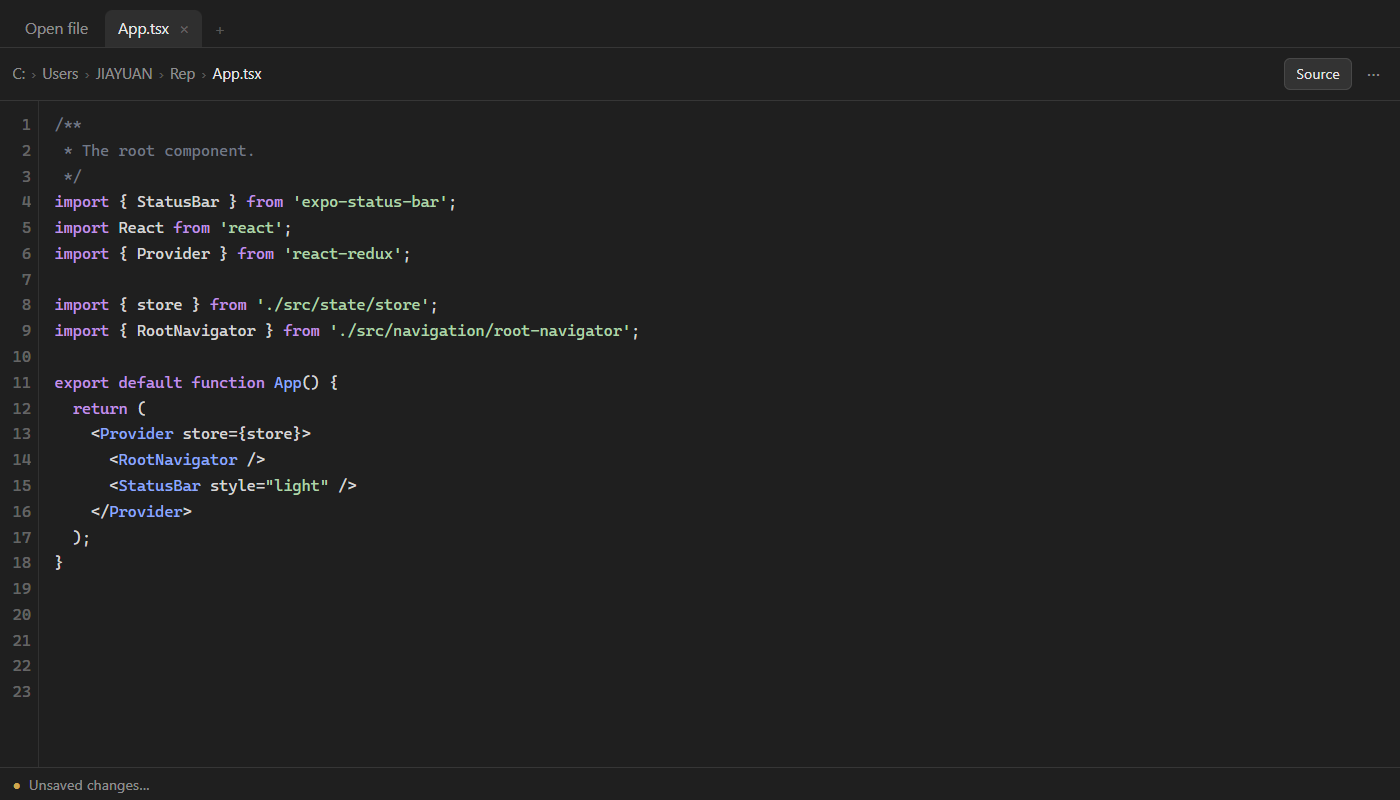
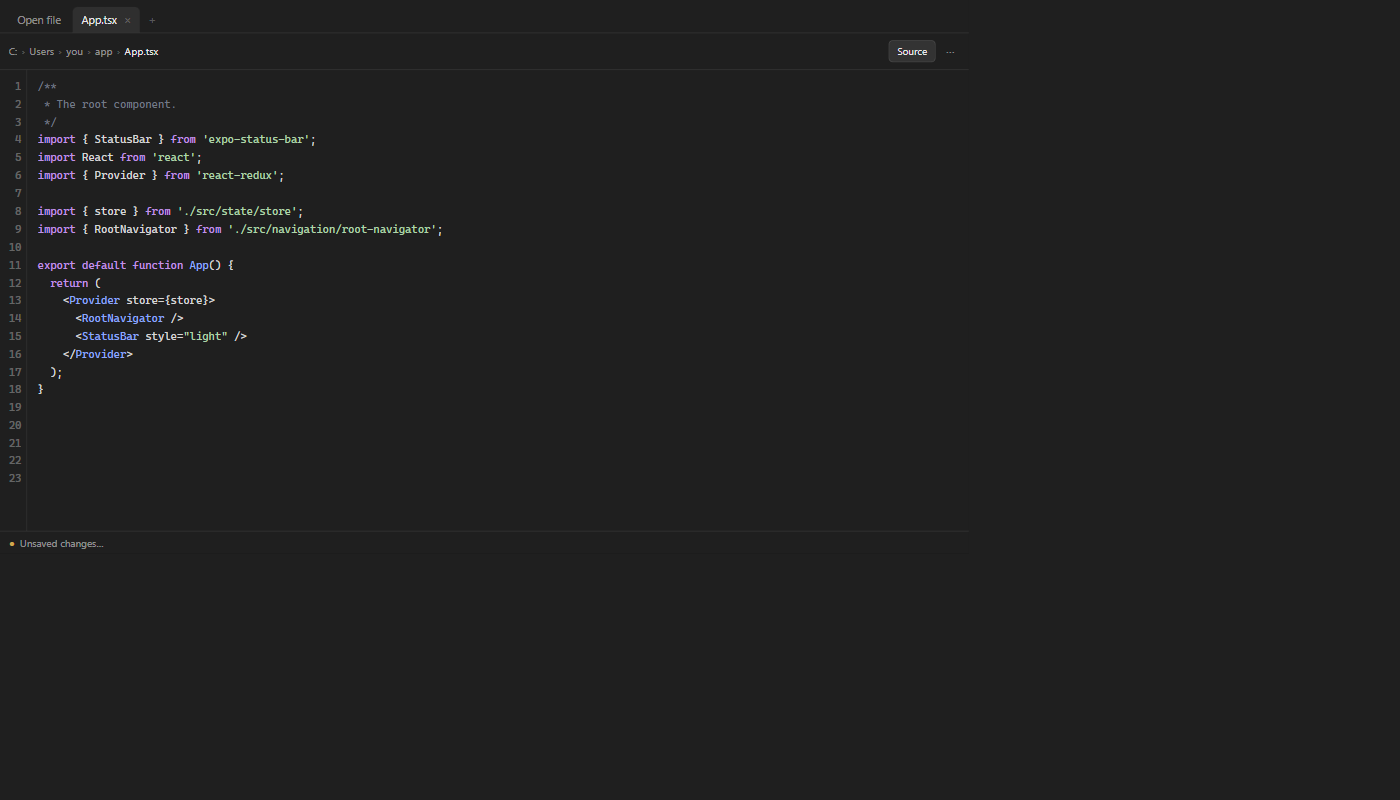
docs: rewrite the README for public readers and neutralise preview paths

diff --git a/docs/preview.html b/docs/preview.html
@@ -169,8 +169,8 @@
         <div class="crumbs">
           <span class="up">C:</span><span class="sep">›</span>
           <span class="up">Users</span><span class="sep">›</span>
-          <span class="up">JIAYUAN</span><span class="sep">›</span>
-          <span class="up">Rep</span><span class="sep">›</span>
+          <span class="up">you</span><span class="sep">›</span>
+          <span class="up">app</span><span class="sep">›</span>
           <span class="file">workouts.csv</span>
         </div>
         <div class="seg"><button class="on">Table</button><button>Source</button></div>
@@ -199,9 +199,9 @@
         <div class="side">
           <h4>Recent</h4>
           <div class="recent">
-            <div>workouts.csv <span class="folder">Rep</span></div>
-            <div>README.md <span class="folder">Rep</span></div>
-            <div>App.tsx <span class="folder">Rep</span></div>
+            <div>workouts.csv <span class="folder">app</span></div>
+            <div>README.md <span class="folder">app</span></div>
+            <div>App.tsx <span class="folder">app</span></div>
             <div>button.tsx <span class="folder">src/components</span></div>
           </div>
         </div>
@@ -213,7 +213,7 @@
     <div class="shot" id="browse" role="img" aria-label="Folder browser">
       <div class="tabs">
         <div class="tab">Open file</div>
-        <div class="tab active">Rep <span class="x">×</span></div>
+        <div class="tab active">app <span class="x">×</span></div>
         <div class="tab">App.tsx <span class="x">×</span></div>
         <div class="plus">+</div>
       </div>
@@ -222,9 +222,9 @@
           <span class="up">↑</span>
           <span class="up">C:</span><span class="sep">›</span>
           <span class="up">Users</span><span class="sep">›</span>
-          <span class="up">JIAYUAN</span><span class="sep">›</span>
-          <span class="up">CursorProjects</span><span class="sep">›</span>
-          <span class="file">Rep</span>
+          <span class="up">you</span><span class="sep">›</span>
+          <span class="up">Projects</span><span class="sep">›</span>
+          <span class="file">app</span>
         </div>
         <div class="dots">⋯</div>
       </div>
@@ -257,8 +257,8 @@
         <div class="crumbs">
           <span class="up">C:</span><span class="sep">›</span>
           <span class="up">Users</span><span class="sep">›</span>
-          <span class="up">JIAYUAN</span><span class="sep">›</span>
-          <span class="up">Rep</span><span class="sep">›</span>
+          <span class="up">you</span><span class="sep">›</span>
+          <span class="up">app</span><span class="sep">›</span>
           <span class="file">App.tsx</span>
         </div>
         <div class="seg"><button class="on">Source</button></div>

diff --git a/README.md b/README.md
@@ -2,7 +2,7 @@
 
 [![npm version](https://img.shields.io/npm/v/opencode-file-editor?logo=npm)](https://www.npmjs.com/package/opencode-file-editor)
 [![npm downloads](https://img.shields.io/npm/dm/opencode-file-editor)](https://www.npmjs.com/package/opencode-file-editor)
-[![license](https://img.shields.io/npm/l/opencode-file-editor)](LICENSE)
+[![license](https://img.shields.io/npm/l/opencode-file-editor)](https://github.com/cheejiayuan512/opencode-file-editor/blob/main/LICENSE)
 [![CI](https://github.com/cheejiayuan512/opencode-file-editor/actions/workflows/ci.yml/badge.svg)](https://github.com/cheejiayuan512/opencode-file-editor/actions/workflows/ci.yml)
 [![GitHub stars](https://img.shields.io/github/stars/cheejiayuan512/opencode-file-editor?style=flat)](https://github.com/cheejiayuan512/opencode-file-editor/stargazers)
 
@@ -11,6 +11,8 @@ autosave, and writes never clobber what the agent just changed.
 
 Built on the `@opencode/plugin/gui` SDK, so it uses the app's own buttons, fields,
 tooltips, themes and Markdown renderer instead of its own widgets.
+
+Requires **OpenCode Desktop 2.2 or newer**.
 
 ## Preview
 
@@ -60,8 +62,8 @@ into the current project's `node_modules`, and OpenCode never looks there. Use
 `opencode plugin add`, or list the package in `plugins` as above — OpenCode then
 installs it under its own prefix and loads it.
 
-Restart OpenCode Desktop, then open the panel with `mod+shift+e`, `/editor`, or
-**+ → File editor** in the session panel.
+Restart OpenCode Desktop, then open the panel with `Ctrl+Shift+E`
+(`Cmd+Shift+E` on macOS), `/editor`, or **+ → File editor** in the session panel.
 
 ## Use
 
@@ -80,6 +82,8 @@ Restart OpenCode Desktop, then open the panel with `mod+shift+e`, `/editor`, or
 - UTF-8 only. Invalid UTF-8 and binary files fall back to the app's preview.
 - Folder listings cap at 2,000 entries and show the real total.
 - This editor only exists inside OpenCode Desktop (GUI plugins are desktop-only).
+- Everything runs locally: it reads and writes the files you point it at. Nothing
+  is uploaded anywhere.
 
 ## Compatibility
 
@@ -87,22 +91,21 @@ Restart OpenCode Desktop, then open the panel with `mod+shift+e`, `/editor`, or
 |---|---|---|
 | 0.1.x | 2.2.x | ^2.2.5 |
 
-`npm run verify:live` checks the running app's plugin-API major against the
-dependency and fails when they diverge, so a host upgrade is caught before a
-release rather than by users.
+Tested against OpenCode Desktop 2.2.5. Each release checks the app's plugin-API
+major against the dependency before publishing, so a host upgrade fails the
+build instead of breaking users.
 
 ## Troubleshooting
 
-**Nothing opens when I click a file path.** The plugin loaded without its GUI
-part. Check with `npm run verify:live`; the usual cause is a `package.json`
-`exports` map, which makes the loader resolve the GUI bundle through
-`node_modules` instead of the package root.
+**Nothing opens when I click a file path.** Update to the latest version and
+restart OpenCode Desktop. If it still happens, open **Settings → Extensions →
+Plugins**, find the plugin and press **Reload**; a failed load is reported there.
 
-**The panel shows an error instead of a folder.** The Ipc contract is stale: the
-host keeps a contract registered under its id for the life of the app. Restart
-OpenCode Desktop after updating the plugin.
+**The panel shows an error instead of a folder.** Restart OpenCode Desktop. The
+plugin's Ipc contract is registered for the life of the app, so a freshly updated
+plugin needs the app to reconnect.
 
-**Two editor tabs fight over the same file.** An old copy is also installed.
+**Two editor tabs fight over the same file.** You have two copies installed.
 Remove either `~/.config/opencode/plugins/file-editor` or the npm package — both
 claim the id `file-editor`.
 
@@ -132,7 +135,8 @@ To try a local checkout instead of the published package:
 { "plugins": ["/absolute/path/to/opencode-file-editor"] }
 ```
 
-See `AGENTS.md` for the rules the tests enforce and why each one exists.
+See [`AGENTS.md`](https://github.com/cheejiayuan512/opencode-file-editor/blob/main/AGENTS.md)
+for the rules the tests enforce and why each one exists.
 
 ## Testing
 
@@ -158,33 +162,13 @@ ok  the bundle has no Node stub in its window path
 ok  the app's plugin API major matches the dependency (2.2.5)
 ```
 
-## Publishing
+## Releasing
 
-`prepublishOnly` runs typecheck, build and the full suite, so a regression blocks
-the upload.
-
-The npm account uses a **passkey**, so `npm publish --otp=…` cannot work: a
-passkey signs locally and never produces a code. Two ways to publish:
-
-1. **Manual (first release).** Run it in a real terminal — npm prints a URL and
-   the browser passkey prompt completes the write:
-
-   ```sh
-   npm publish
-   ```
-
-2. **Trusted publishing (every release after that).** Configure the package on
-   npmjs.com → Settings → Trusted Publishing → GitHub Actions
-   (`cheejiayuan512` / `opencode-file-editor` / `publish.yml`), then push a `v*`
-   tag. `.github/workflows/publish.yml` publishes over OIDC with provenance and
-   needs no OTP or token.
-
-Before publishing:
-
-1. `npm run verify:live` against the OpenCode version you support.
-2. Bump `version`, add a `CHANGELOG.md` entry, update the compatibility table.
-3. Tag `v<version>` so the GitHub release and the npm version agree.
+Maintainer notes live in [`AGENTS.md`](https://github.com/cheejiayuan512/opencode-file-editor/blob/main/AGENTS.md).
+In short: bump `version`, add a `CHANGELOG.md` entry, push a `v<version>` tag —
+`.github/workflows/publish.yml` publishes over OIDC with provenance, no token and
+no one-time password.
 
 ## License
 
-MIT
+[MIT](https://github.com/cheejiayuan512/opencode-file-editor/blob/main/LICENSE)

diff --git a/CHANGELOG.md b/CHANGELOG.md
@@ -1,5 +1,13 @@
 # Changelog
 
+## 0.1.3
+
+- README rewritten for public readers: explicit requirement line, `Ctrl/Cmd`
+  shortcuts, user-level troubleshooting, and absolute links so they resolve on
+  npmjs.com as well as GitHub.
+- Preview images regenerated with neutral paths (no personal username in the
+  breadcrumbs).
+
 ## 0.1.2
 
 - README: preview images for the table view, folder browser and source editor.
